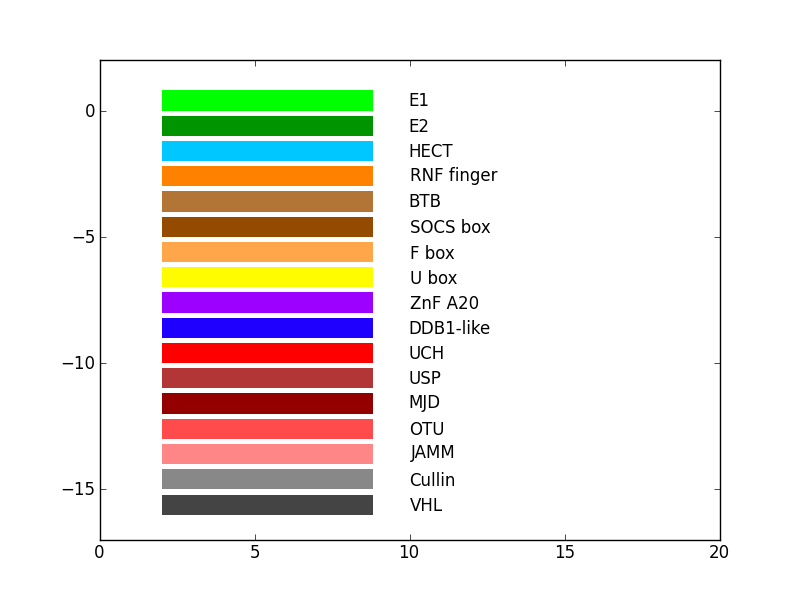
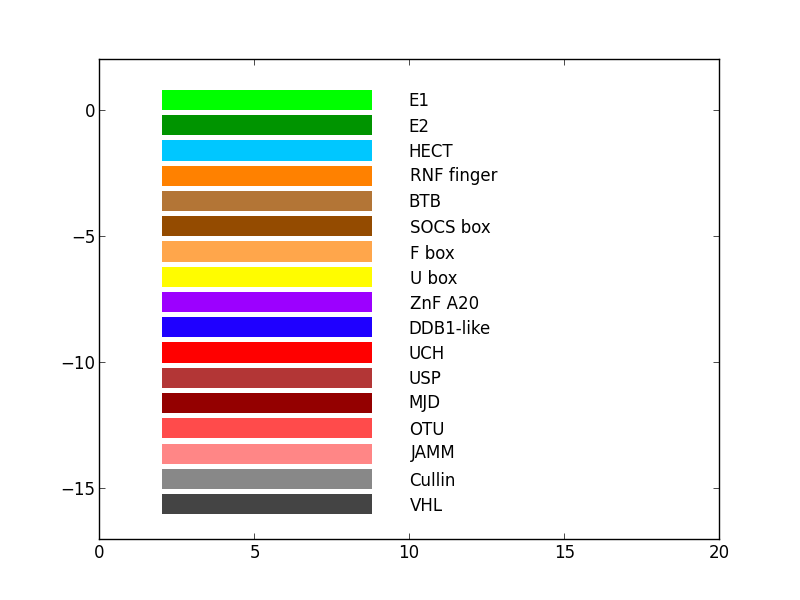
added ptp support

diff --git a/draw_domains.py b/draw_domains.py
@@ -9,6 +9,7 @@ from optparse import OptionParser
 
 try:
     from data import *
+    import tools
 except Exception:
     print "Error: Can't find my own data file! data.py is missing"
     sys.exit(1)
@@ -116,6 +117,8 @@ class schematic:
             self.col_map = acast_col_map
         elif style == "unk_domains":
             self.col_map = unk_domains
+        elif style == "ptp":
+            self.col_map = ptp_map
             
         for n, item in enumerate(self.data):
             if style == "ubl":
@@ -126,6 +129,9 @@ class schematic:
                 self.draw(item, self.__draw_gen_style, thumbs)
             elif style == "unk_domains":
                 self.draw(item, self.__draw_unk_style, thumbs)
+            elif style == "ptp":
+                self.draw(item, self.__draw_ubl_style, thumbs)
+                
         return(None)
     
     def draw(self, item, draw_func, thumb=False):
@@ -227,21 +233,23 @@ class schematic:
                 elif d["db"] in domain_label_lookup and domain_label_lookup[d["db"]] in self.col_map: # This is where mixed domains will end up.
                     col = self.col_map[domain_label_lookup[d["db"]]]
                     label = domain_label_lookup[d["db"]]
+                elif d["name"] in self.col_map:
+                    col = self.col_map[d["name"]]
+                    label = d["name"]                    
                 else:
                     print "Warning: '%s' not found in colour map" % d["db"]
-                    print item
                     col = "pink"
                     label = d["db"]
                 
                 ax.add_patch(Rectangle((d["pos"][0], -p["evpad"]), d["pos"][1] - d["pos"][0], p["evpad"]*2, 
-                    ec="black", fc=col, lw=0.5, zorder=100000))
+                    ec="none", fc=col, lw=0.5, zorder=100000))
 
                 if not thumb: # numbers showing the aa position of the domain
                     ax.text(d["pos"][0]+p["pad2"], 0, str(d["pos"][0]+1), ha="left", va="center", fontsize=5, color="black", zorder=100001)
                     ax.text(d["pos"][1]-p["pad2"], 0, str(d["pos"][1]+1), ha="right", va="center", fontsize=5, color="black", zorder=100001)
             else:
                 ax.add_patch(Rectangle((d["pos"][0], -p["nvpad"]), d["pos"][1] - d["pos"][0], p["nvpad"]*2, 
-                    ec="black", fc="grey", lw=0.5, zorder=2))
+                    ec="none", fc="grey", lw=0.5, zorder=2))
 
             if not thumb:
                 if d["fam"] == "FAMILY-DEFINING":
@@ -284,6 +292,7 @@ class schematic:
         db it came from
         """
         for d in item["domains"]:
+            print d
             if d["name"] not in self.col_map:
                 print "Warning: '%s' not found in colour map" % d["name"]
             else:
@@ -322,7 +331,7 @@ class schematic:
         ax.text(0, 0.5, "%s (%s amino acids)" % (item["name"],  item["len"]), color="black", fontsize=20, ha="left")   
     
 if __name__ == "__main__":
-    parser = OptionParser()
+    parser = OptionParser() # Should be replaced with argparse
     parser.add_option("-i", 
         dest="filename", action="store",
         help="The input filename")
@@ -338,11 +347,18 @@ if __name__ == "__main__":
     parser.add_option("-v", "--svg",
         dest="svg", action="store_true", default=False,
         help="output 'full' figures as svg files")
+    parser.add_option("-c", "--collate", default=False,
+        dest="collate", action="store_true",
+        help="Scan the domain data and list the FAMILY-DEFINING domains")
 
     (options, args) = parser.parse_args()   
-        
-    t = schematic(options.filename, output_path=os.path.join(options.output_path, "full"), fixed=options.fixed, svg=options.svg)
-    t.draw_all(style=options.style, thumbs=False)
     
-    t = schematic(options.filename, output_path=os.path.join(options.output_path, "thumbs"))
-    t.draw_all(style=options.style, thumbs=True)
+    if options.collate:
+        # scan the file and collect all of the FAMILY-DEFINING categories.
+        tools.collate_family_defining(options.filename)
+    else:
+        t = schematic(options.filename, output_path=os.path.join(options.output_path, "full"), fixed=options.fixed, svg=options.svg)
+        t.draw_all(style=options.style, thumbs=False)
+        
+        t = schematic(options.filename, output_path=os.path.join(options.output_path, "thumbs"))
+        t.draw_all(style=options.style, thumbs=True)

diff --git a/tools.py b/tools.py
@@ -1,0 +1,34 @@
+
+import matplotlib.cm as cm
+import numpy
+
+def collate_family_defining(filename):
+    """
+    scan a filename and list all 'FAMILY-DEFINING' features
+    """
+    
+    oh = open(filename, "rU")
+    
+    doms = []
+    for line in oh:
+        if "FAMILY-DEFINING" in line:
+            line = line.strip().split()
+            doms.append(line[5])
+    
+    set_of_doms = set(doms)
+    for d in set_of_doms:
+        print "%s\t%s" % (doms.count(d), d)
+    
+    cols = cm.Paired(numpy.arange(len(set_of_doms))/ (len(set_of_doms)*1.0))[:,:-1]
+    print cols
+    
+    print cols
+    
+    print
+    print "Suggested ColourMap:"
+    print "col_map = {"
+    for i, d in enumerate(set_of_doms):
+        print "\t'%s': '%s'," % (d, '#%02x%02x%02x' % tuple(cols[i]*255))
+    print "\t}"
+    
+    oh.close()

diff --git a/data.py b/data.py
@@ -125,7 +125,21 @@ unk_domains = {
     "Ubiquitin-like": "#FF00B2",                       
     "UbiqConj_RWD": "#A60074", 
     "L1": "#FF9FE2"} 
-
+    
+ptp_map = {
+	'EYA': '#a6cee3',
+	'SSF52788': '#2078b4',
+	'SSF52799': '#afdd8a',
+	'Myotub-related': '#35a12e',
+	'Tyr_Pase_low_mol_wt': '#fa9897',
+	'Tyr_Pase_rcpt/non-rcpt': '#e31a1c',
+	'MPI_Phosphatase': '#fcbe6e',
+	'DUF370': '#fe7f01',
+	'Tyr_Pase_cat': '#c7afd4',
+	'Tyr_Pase_dual_specific': '#6c4099',
+	'Tyr_Pase_SIW14-like': '#fefd98',
+	}
+	
 """
 my @E2=('PF00179','SM00212');
 my @ZnF_A20= ('PF01754','SM00259' );
@@ -164,3 +178,4 @@ if __name__ == "__main__":
         "U box", "ZnF A20", "DDB1-like", "UCH", "USP", "MJD", "OTU", "JAMM",
         "Cullin", "VHL"]
     draw_key("ubl", ubl_col_map, ubl_order)
+    draw_key("ptp", ptp_map, ptp_map.keys())
